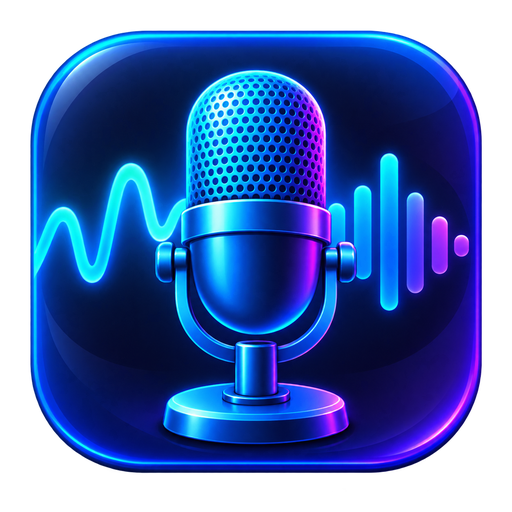
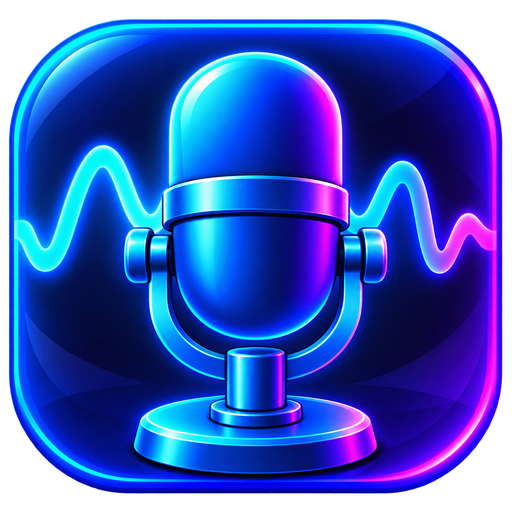
Release 4.46.9

diff --git a/app/kstudio/studio.html b/app/kstudio/studio.html
@@ -3,7 +3,9 @@
 <head>
 <meta charset="utf-8">
 <title>Karaoke Studio</title>
-<link rel="icon" type="image/png" href="/icon.png">
+<link rel="icon" type="image/png" sizes="32x32" href="/icon-32.png">
+<link rel="icon" type="image/png" sizes="512x512" href="/icon.png">
+<link rel="shortcut icon" href="/favicon.ico">
 <style>
   /* One multiplier for the whole window: on a wide monitor the labels grow with
      it, on a laptop they stay as they were. Sizes below are in rem of this. */

diff --git a/app/studio.py b/app/studio.py
@@ -29,6 +29,7 @@ import time
 import traceback
 import uuid
 import webbrowser
+from concurrent.futures import ThreadPoolExecutor
 from http.server import BaseHTTPRequestHandler, ThreadingHTTPServer
 from typing import Optional
 from urllib.parse import parse_qs, unquote, urlparse
@@ -490,6 +491,14 @@ class Handler(BaseHTTPRequestHandler):
             if path == "/icon.png":
                 with open(os.path.join(ROOT, "kstudio", "icon.png"), "rb") as f:
                     return self._send(200, f.read(), "image/png")
+
+            if path == "/icon-32.png":
+                with open(os.path.join(ROOT, "kstudio", "icon-32.png"), "rb") as f:
+                    return self._send(200, f.read(), "image/png")
+
+            if path == "/favicon.ico":
+                with open(os.path.join(ROOT, "kstudio", "favicon.ico"), "rb") as f:
+                    return self._send(200, f.read(), "image/x-icon")
 
             if path == "/api/state":
                 return self._json({"projects": P.list_all(PROJECTS),
@@ -1668,47 +1677,65 @@ def replace_track(folder: str, src: str, kind: str, shift: bool, log) -> dict:
 
 
 _PITCH_LOCK = threading.Lock()
+_PITCH_CACHE_KEYS = 3
 
 
 def pitched_tracks(folder: str, data: dict, semitones: int = 0) -> dict:
     """Return project track names transposed without changing their length.
 
-    Only the currently selected key is cached, so trying several keys does not
-    quietly grow every project by another pair of audio files.
+    Both stems are independent, so FFmpeg can transpose them at the same time.
+    Keep the three most recently used keys: stepping back and forth in the
+    editor is then instant without letting every project grow indefinitely.
     """
     semitones = max(-6, min(6, int(semitones or 0)))
     tracks = dict(data.get("tracks") or {})
     if not semitones:
-        for old in os.listdir(folder):
-            if old.startswith("_pitch-"):
-                try:
-                    os.remove(os.path.join(folder, old))
-                except OSError:
-                    pass
         return tracks
     tag = ("p" if semitones > 0 else "m") + str(abs(semitones))
-    made = {}
+    made = {kind: f"_pitch-{tag}-{kind}.mp3" for kind in tracks}
+
+    def build_one(item) -> None:
+        kind, name = item
+        src = os.path.join(folder, name)
+        dst = os.path.join(folder, made[kind])
+        fresh = (os.path.isfile(dst) and os.path.getsize(dst) > 0
+                 and os.path.getmtime(dst) >= os.path.getmtime(src))
+        if fresh:
+            os.utime(dst, None)
+            return
+        tmp = os.path.join(folder, f"_pitch-{tag}-{kind}.tmp.mp3")
+        try:
+            AU.pitch_shift(src, tmp, semitones)
+            os.replace(tmp, dst)
+        finally:
+            try:
+                os.remove(tmp)
+            except OSError:
+                pass
+
     with _PITCH_LOCK:
-        for kind, name in tracks.items():
-            src = os.path.join(folder, name)
-            dst_name = f"_pitch-{tag}-{kind}.mp3"
-            dst = os.path.join(folder, dst_name)
-            fresh = (os.path.isfile(dst) and os.path.getsize(dst) > 0
-                     and os.path.getmtime(dst) >= os.path.getmtime(src))
-            if not fresh:
-                tmp = os.path.join(folder, f"_pitch-{tag}-{kind}.tmp.mp3")
-                try:
-                    AU.pitch_shift(src, tmp, semitones)
-                    os.replace(tmp, dst)
-                finally:
-                    try:
-                        os.remove(tmp)
-                    except OSError:
-                        pass
-            made[kind] = dst_name
-        keep = set(made.values())
+        items = list(tracks.items())
+        if len(items) > 1:
+            with ThreadPoolExecutor(max_workers=min(2, len(items)),
+                                    thread_name_prefix="pitch") as pool:
+                list(pool.map(build_one, items))
+        else:
+            for item in items:
+                build_one(item)
+
+        cache = {}
         for old in os.listdir(folder):
-            if old.startswith("_pitch-") and old not in keep:
+            match = re.match(r"^_pitch-([pm]\d+)-.+\.mp3$", old)
+            if match:
+                path = os.path.join(folder, old)
+                cache[match.group(1)] = max(cache.get(match.group(1), 0),
+                                            os.path.getmtime(path))
+        keep_tags = {name for name, _ in sorted(cache.items(),
+                                                key=lambda item: item[1],
+                                                reverse=True)[:_PITCH_CACHE_KEYS]}
+        for old in os.listdir(folder):
+            match = re.match(r"^_pitch-([pm]\d+)-.+\.mp3$", old)
+            if match and match.group(1) not in keep_tags:
                 try:
                     os.remove(os.path.join(folder, old))
                 except OSError:

diff --git a/app/tests/test_delivery.py b/app/tests/test_delivery.py
@@ -325,6 +325,43 @@ def main():
           _ST.parse_args(["--host", "0.0.0.0", "--port", "8770"])[2] == "0.0.0.0")
     check("by default we listen to ourselves only", _ST.parse_args([])[2] == "127.0.0.1")
 
+    print("\nFast key changes")
+    with tempfile.TemporaryDirectory() as pitch_tmp:
+        pitch_data = {"tracks": {"vocals": "vocals.mp3",
+                                  "instrumental": "instrumental.mp3"}}
+        for name in pitch_data["tracks"].values():
+            open(os.path.join(pitch_tmp, name), "wb").write(b"source")
+        real_pitch_shift = _ST.AU.pitch_shift
+        pitch_guard = threading.Lock()
+        pitch_active = [0, 0]
+
+        def fake_pitch_shift(src, dst, semitones):
+            with pitch_guard:
+                pitch_active[0] += 1
+                pitch_active[1] = max(pitch_active)
+            time.sleep(0.06)
+            open(dst, "wb").write(str(semitones).encode("ascii"))
+            with pitch_guard:
+                pitch_active[0] -= 1
+
+        _ST.AU.pitch_shift = fake_pitch_shift
+        try:
+            _ST.pitched_tracks(pitch_tmp, pitch_data, 1)
+            check("the vocal and instrumental are transposed in parallel",
+                  pitch_active[1] == 2, pitch_active[1])
+            for key in (2, 3, 4):
+                _ST.pitched_tracks(pitch_tmp, pitch_data, key)
+            cached = {re.match(r"^_pitch-([pm]\d+)-", name).group(1)
+                      for name in os.listdir(pitch_tmp)
+                      if re.match(r"^_pitch-([pm]\d+)-", name)}
+            check("only three recently used keys stay cached",
+                  cached == {"p2", "p3", "p4"}, cached)
+            _ST.pitched_tracks(pitch_tmp, pitch_data, 0)
+            check("returning to zero does not throw the useful cache away",
+                  any(name.startswith("_pitch-") for name in os.listdir(pitch_tmp)))
+        finally:
+            _ST.AU.pitch_shift = real_pitch_shift
+
     print("\nThe video keeps the original where the marks say so")
     # The page says keepSpans; the MP4 is made from the page, and a vocalise
     # muted in the video is a hole exactly where the song is loudest.

diff --git a/app/packaging/make-icon.py b/app/packaging/make-icon.py
@@ -1,0 +1,41 @@
+"""Build the EXE and browser icons from the high-resolution artwork."""
+
+from pathlib import Path
+
+from PIL import Image, ImageFilter
+
+
+HERE = Path(__file__).resolve().parent
+APP = HERE.parent
+ART = HERE / "KaraokeStudio-source.png"
+
+
+def fitted_master() -> Image.Image:
+    image = Image.open(ART).convert("RGBA")
+    if image.getchannel("A").getbbox() is None:
+        raise RuntimeError("icon artwork is empty")
+    return image.resize((1024, 1024), Image.Resampling.LANCZOS)
+
+
+def resized(master: Image.Image, size: int) -> Image.Image:
+    image = master.resize((size, size), Image.Resampling.LANCZOS)
+    if size <= 64:
+        image = image.filter(ImageFilter.UnsharpMask(radius=0.7, percent=135,
+                                                     threshold=2))
+    return image
+
+
+def main() -> None:
+    master = fitted_master()
+    master.save(HERE / "KaraokeStudio-source.png", optimize=True)
+    resized(master, 512).save(APP / "kstudio" / "icon.png", optimize=True)
+    resized(master, 32).save(APP / "kstudio" / "icon-32.png", optimize=True)
+    ico = HERE / "KaraokeStudio.ico"
+    master.save(ico, format="ICO", sizes=[(16, 16), (24, 24), (32, 32),
+                                          (48, 48), (64, 64), (128, 128),
+                                          (256, 256)])
+    (APP / "kstudio" / "favicon.ico").write_bytes(ico.read_bytes())
+
+
+if __name__ == "__main__":
+    main()

diff --git a/app/kstudio/update.py b/app/kstudio/update.py
@@ -187,14 +187,18 @@ def launch(archive: str) -> None:
     if not supported() or not os.path.isfile(archive):
         raise RuntimeError(tr("the downloaded update is gone",
                               "скачанное обновление пропало"))
-    source = os.path.join(_bundle_root(), "KaraokeUpdater.exe")
+    source_dir = os.path.join(_bundle_root(), "updater")
+    source = os.path.join(source_dir, "KaraokeUpdater.exe")
     if not os.path.isfile(source):
         raise RuntimeError(tr("KaraokeUpdater.exe is missing from the installation",
                               "в установленной программе нет KaraokeUpdater.exe"))
     temp_dir = tempfile.mkdtemp(prefix="karaoke-updater-")
-    updater = os.path.join(temp_dir, "KaraokeUpdater.exe")
-    shutil.copy2(source, updater)
+    updater_dir = os.path.join(temp_dir, "updater")
+    shutil.copytree(source_dir, updater_dir)
+    updater = os.path.join(updater_dir, "KaraokeUpdater.exe")
+    env = os.environ.copy()
+    env["PYINSTALLER_RESET_ENVIRONMENT"] = "1"
     subprocess.Popen([updater, "--pid", str(os.getpid()), "--archive", archive,
                       "--install", _bundle_root(), "--exe", "KaraokeStudio.exe"],
                      creationflags=getattr(subprocess, "CREATE_NO_WINDOW", 0),
-                     close_fds=True)
+                     close_fds=True, env=env)

diff --git a/app/tests/test_packaging.py b/app/tests/test_packaging.py
@@ -37,12 +37,22 @@ def main():
           'icon=os.path.join(APP, "packaging", "KaraokeStudio.ico")' in spec
           and icon_header[:4] == b"\x00\x00\x01\x00"
           and int.from_bytes(icon_header[4:6], "little") >= 6)
+    check("the packaged browser window carries taskbar-size icons",
+          '"icon-32.png"' in spec and '"favicon.ico"' in spec
+          and os.path.isfile(os.path.join(ROOT, "kstudio", "icon-32.png"))
+          and os.path.isfile(os.path.join(ROOT, "kstudio", "favicon.ico")))
 
     build_path = os.path.join(ROOT, "packaging", "build-windows.ps1")
     with open(build_path, encoding="utf-8-sig") as f:
         build_script = f.read()
     check("finished EXE gets a media dependency smoke test",
           "--internal-package-smoke" in build_script)
+    updater_spec_path = os.path.join(ROOT, "packaging", "KaraokeUpdater.spec")
+    with open(updater_spec_path, encoding="utf-8") as f:
+        updater_spec = f.read()
+    check("the updater starts from a one-folder runtime",
+          "exclude_binaries=True" in updater_spec and "COLLECT(" in updater_spec
+          and "updater-dist\\KaraokeUpdater" in build_script)
 
     workflow_path = os.path.join(os.path.dirname(ROOT), ".github", "workflows",
                                  "windows-release.yml")

diff --git a/app/updater.py b/app/updater.py
@@ -152,7 +152,10 @@ def apply(archive: str, install: str, exe: str, pid: int) -> None:
         shutil.rmtree(backup, ignore_errors=True)
     try:
         replace_in_place(staged, install, backup)
-        subprocess.Popen([os.path.join(install, exe)], cwd=tempfile.gettempdir())
+        env = os.environ.copy()
+        env["PYINSTALLER_RESET_ENVIRONMENT"] = "1"
+        subprocess.Popen([os.path.join(install, exe)], cwd=tempfile.gettempdir(),
+                         env=env)
     except Exception:
         raise
     finally:

diff --git a/app/kstudio/__init__.py b/app/kstudio/__init__.py
@@ -1,3 +1,3 @@
 """kstudio — building a karaoke page out of an audio file and its lyrics."""
 
-__version__ = "4.46.8"
+__version__ = "4.46.9"

diff --git a/CHANGELOG.ru.md b/CHANGELOG.ru.md
@@ -7,6 +7,23 @@
 
 ---
 
+## 4.46.9
+
+**Обновление Windows больше не зависает после проверки скачанного архива.**
+Внешний обновлятор теперь поставляется обычной папкой с рантаймом вместо большого
+самораспаковывающегося EXE. Он запускается вне установки, заменяет программу на
+месте и перезапускает Студию в чистом окружении PyInstaller. Полный путь проверен
+на настоящем архиве 4.46.8: проекты, готовые файлы и настройки сохранились.
+
+**Тональность меняется быстрее, а возврат к недавнему значению происходит
+мгновенно.** Вокал и минусовка транспонируются параллельно, а три последние
+тональности остаются в ограниченном кэше. Возврат к исходной тональности больше
+не удаляет этот полезный кэш.
+
+**Микрофон теперь заполняет место на панели задач, а не выглядит крошечным.**
+Рисунок упрощён для маленького размера, Windows получает полный набор иконок от
+16 до 256 пикселей, а Chromium — отдельные чёткие favicon в PNG и ICO.
+
 ## 4.46.8
 
 **Видеоряд из исходника теперь автоматически становится движущимся фоном

diff --git a/CHANGELOG.md b/CHANGELOG.md
@@ -7,6 +7,25 @@ commits themselves are one click away in the history.
 
 ---
 
+## 4.46.9
+
+**Windows updates no longer stall after the archive has been verified.** The
+external updater now ships as a one-folder runtime instead of a large
+self-extracting executable. It starts outside the installation, replaces the
+program in place and restarts Studio in a clean PyInstaller environment. The
+complete path was exercised against the real 4.46.8 release archive while
+preserving projects, finished exports and settings.
+
+**Changing key is faster and stepping back to a recent key is instant.** The
+vocal and instrumental stems are transposed in parallel, and the three most
+recent semitone choices remain in a bounded cache. Returning to the original
+key no longer throws that useful cache away.
+
+**The microphone fills the taskbar slot instead of looking miniature.** The
+artwork was simplified for small sizes, every Windows icon size from 16 to 256
+pixels is generated from one source, and Chromium receives dedicated 32-pixel
+PNG and ICO favicons.
+
 ## 4.46.8
 
 **Video sources now become moving karaoke backdrops automatically.** Studio
